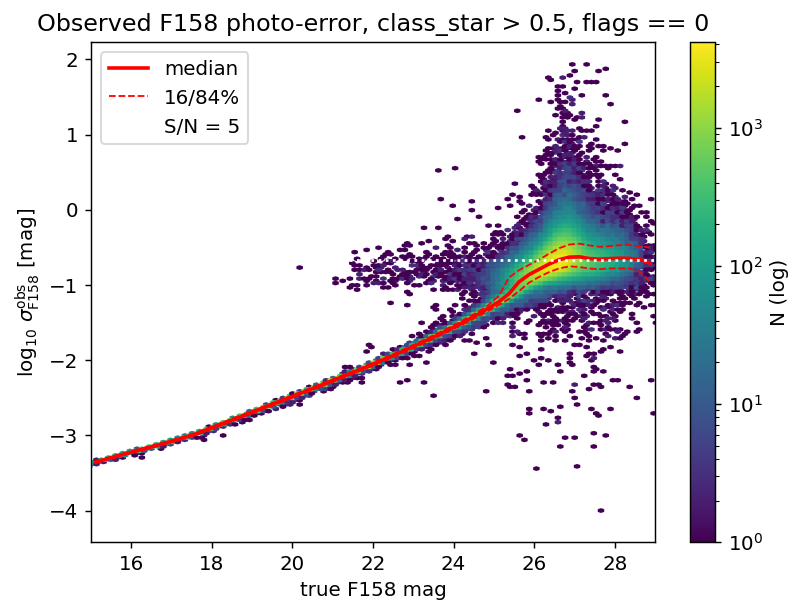
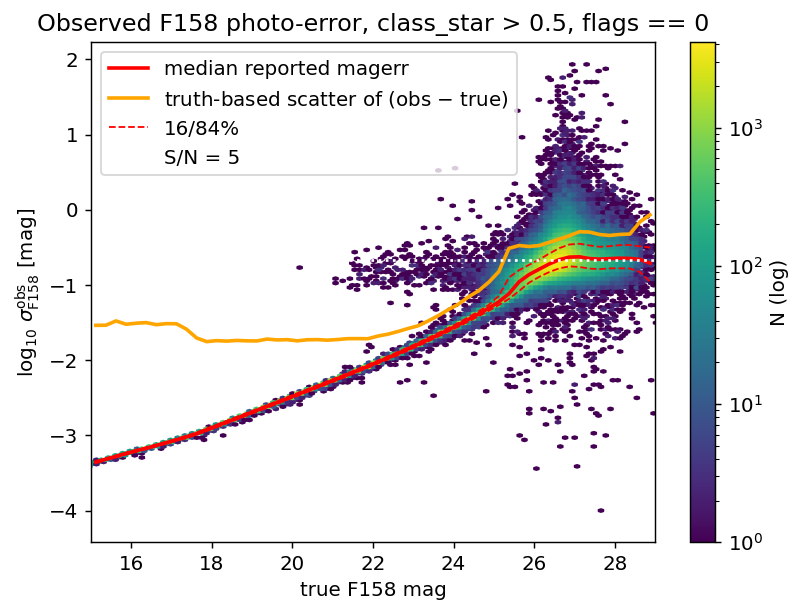
Truth-validate errors: drop maglim normalization, truth-based error model
Validating the reported SExtractor magerr against the truth shows it
underestimates the real scatter of (observed - true) by a flat factor
~1.9-2.0 in all four bands - the apparent excess depth over the official
5-sigma values is not real. Accordingly:

- photo-error table is now built from the truth-based scatter
  ((p84-p16)/2 of mag_auto - truth mag), not the reported magerr
- normalized _5sigps maglim maps removed; maps stay in the measured
  convention and the tables' delta_mag is keyed to the measured F158
  map median, one internal convention throughout
- new error-validation figure (reported vs truth-based, per band) in the
  notebook and docs; docs depth/error sections rewritten accordingly
- config points at the un-normalized maglim map

diff --git a/docs/source/roman_hlwas.md b/docs/source/roman_hlwas.md
@@ -76,19 +76,36 @@ rate of detected compact (<0.3″) true galaxies on the same axes.*
 
 ## Photometric errors
 
-The photometric error model `roman_photoerror_f158.csv` is the binned median of
-log10 of the observed F158 `magerr_auto` for star-classified objects, tabulated
-against `delta_mag = m_true − maglim`, where the magnitude limit is evaluated at
-each object's position from the nside=1024 depth map described below. Tabulating
-against `delta_mag` rather than magnitude makes the model portable across regions
-(and surveys) of different depth, under the assumption that the error profile
-depends on magnitude only through the local depth.
+Because the truth is available, the reported photometric uncertainties can be
+validated directly: for true stars, the scatter of observed-minus-true magnitude
+should match the reported `magerr_auto`. It does not. The truth-based scatter —
+measured as half the 16th-to-84th percentile span of (m_obs − m_true) in bins of
+magnitude — exceeds the reported errors by a flat factor of ~1.9–2.0 at all
+magnitudes and in all four bands, the signature of SExtractor underestimating the
+correlated noise of the resampled, median-combined coadds.
+
+![Reported errors vs truth-based scatter](_static/roman_hlwas/error_validation.png)
+
+*Truth-based scatter (solid) and median reported `magerr_auto` (dashed) for true
+stars per band, with their ratio in the lower panel: a constant factor ≈2 in every
+band.*
+
+The photometric error model `roman_photoerror_f158.csv` is therefore built from the
+**truth-based scatter**, not the reported errors: it tabulates the binned log10
+scatter of (observed − true) F158 magnitude for star-classified objects against
+`delta_mag = m_true − maglim`, where the magnitude limit is evaluated at each
+object's position from the nside=1024 depth map described below. Tabulating against
+`delta_mag` rather than magnitude makes the model portable across regions (and
+surveys) of different depth, under the assumption that the error profile depends on
+magnitude only through the local depth.
 
 ![Observed F158 photometric error vs true magnitude](_static/roman_hlwas/photoerror_f158.png)
 
 *Observed F158 `magerr_auto` against true F158 magnitude for star-classified
-objects, with binned median and 16/84% curves. The error saturates near the S/N≈5
-floor at the faint end; the sparse cloud above the median relation is blends.*
+objects, with binned median and 16/84% curves of the reported errors and, in orange,
+the truth-based scatter adopted for the error model. The reported error saturates
+near the S/N≈5 floor at the faint end; the sparse cloud above the median relation is
+blends.*
 
 ## Survey depth
 
@@ -102,33 +119,29 @@ magnitude limit of a pixel is the median over its objects. We define depth at
 **S/N = 5**, consistent with the catalog's detection threshold. The resulting
 medians are 26.77/27.11/27.11/26.67 in F106/F129/F158/F184.
 
-These measured depths run ~0.2 mag (F106–F158) to ~0.5 mag (F184) past the official
-expected 5σ point-source depths of the simulated survey. The same excess is visible
-in Figure 5 of Troxel et al., whose measured magnitude histograms extend beyond the
-expected limiting-magnitude lines (most prominently in F184); the likely cause is
-that SExtractor underestimates the correlated noise of the resampled, median-combined
-coadds, inflating the apparent signal-to-noise.
+These nominally exceed the official expected 5σ point-source depths of the simulated
+survey (26.9 in F106/F129/F158, 26.2 in F184) by ~0.2–0.5 mag, but this is not real
+extra depth: it follows from the same error underestimation established above (the
+same excess is visible in Figure 5 of Troxel et al., most prominently in F184). The
+maps are therefore an *internal* depth reference — their value is the spatial
+structure and the `delta_mag` coordinate they define, not their absolute calibration.
 
 ![Magnitude-limit maps per band at nside=1024](_static/roman_hlwas/maglim_maps.png)
 
 *Measured S/N=5 magnitude-limit maps over the DC2 footprint (RA 51–56, Dec −42 to
 −38). The spatial structure traces the simulated dither/pass pattern.*
 
-### Depth convention and normalization
+### Depth convention
 
-Because of this offset, we adopt the **official 5σ point-source depth** as the
-reference convention. Each band's map is provided in two forms:
-
-- the raw measured map (`roman_dc2_maglim_f*_nside1024.fits.gz`);
-- a normalized map (`..._5sigps.fits.gz`) shifted so its median equals the official
-  depth of the simulated survey (26.9 in F106/F129/F158, 26.2 in F184), preserving
-  the measured spatial structure.
-
-The `delta_mag` axes of the completeness and photometric-error tables are keyed to
-the official convention, so they must be paired with magnitude-limit maps in the
-same convention — the `_5sigps` maps above or, for the real HLWAS footprint, an
-exposure-time-scaled map normalized to the
-[STScI community-defined HLWAS median 5σ point-source depths](https://roman-docs.stsci.edu/roman-community-defined-surveys/high-latitude-wide-area-survey):
+No renormalization is applied anywhere: the maps are released as measured
+(`roman_dc2_maglim_f*_nside1024.fits.gz`), and the `delta_mag` axes of the
+completeness and photometric-error tables are keyed to the median of the F158 map,
+so maps and tables share a single internal convention. A magnitude-limit map for a
+different footprint (e.g. an exposure-time-scaled map of the real HLWAS) must be
+expressed in this same convention — scaled relative to the DC2 depth — for the
+tables to apply. For reference, the
+[STScI community-defined HLWAS median 5σ point-source depths](https://roman-docs.stsci.edu/roman-community-defined-surveys/high-latitude-wide-area-survey)
+are:
 
 | Tier | Area | 5σ point-source total depth (AB) |
 |---|---|---|
@@ -136,10 +149,9 @@ exposure-time-scaled map normalized to the
 | Medium | ~2400 deg² | F106 26.5, F129 26.4, F158 26.4 |
 | Deep | ~19.2 deg² | F106 27.7, F129 27.6, F158 27.5, F184 27.0, F213 25.9 |
 
-With this convention, substituting a shallower (e.g. wide-tier) map automatically
-translates the completeness and error curves to the correct depths, under the
-assumption that the selection function depends on magnitude only through
-`mag − maglim`.
+Substituting a shallower (e.g. wide-tier) map translates the completeness and error
+curves to the corresponding depths, under the assumption that the selection function
+depends on magnitude only through `mag − maglim`.
 
 ![Roman F158 vs LSST r selection-function tables](_static/roman_hlwas/lsst_comparison.png)
 
@@ -172,5 +184,9 @@ photo_error = survey.get_photo_error("f158", mag, maglim)
   saturation; the configured `saturation: 15.0` marks the validity limit of the
   completeness table rather than the physical WFI saturation (~17–18 AB for point
   sources).
+- `mag_auto` carries a systematic offset with respect to the truth (≈ +0.1–0.2 mag
+  in F106/F129/F158 and ≈ +0.6 mag in F184 at the bright end, growing toward faint
+  magnitudes from aperture losses). The error model captures the scatter about this
+  offset, not the offset itself.
 - Extinction coefficients are CCM89 (R_V = 3.1) evaluated at the filter effective
   wavelengths (1.14, 0.83, 0.60, 0.47 for F106/F129/F158/F184).